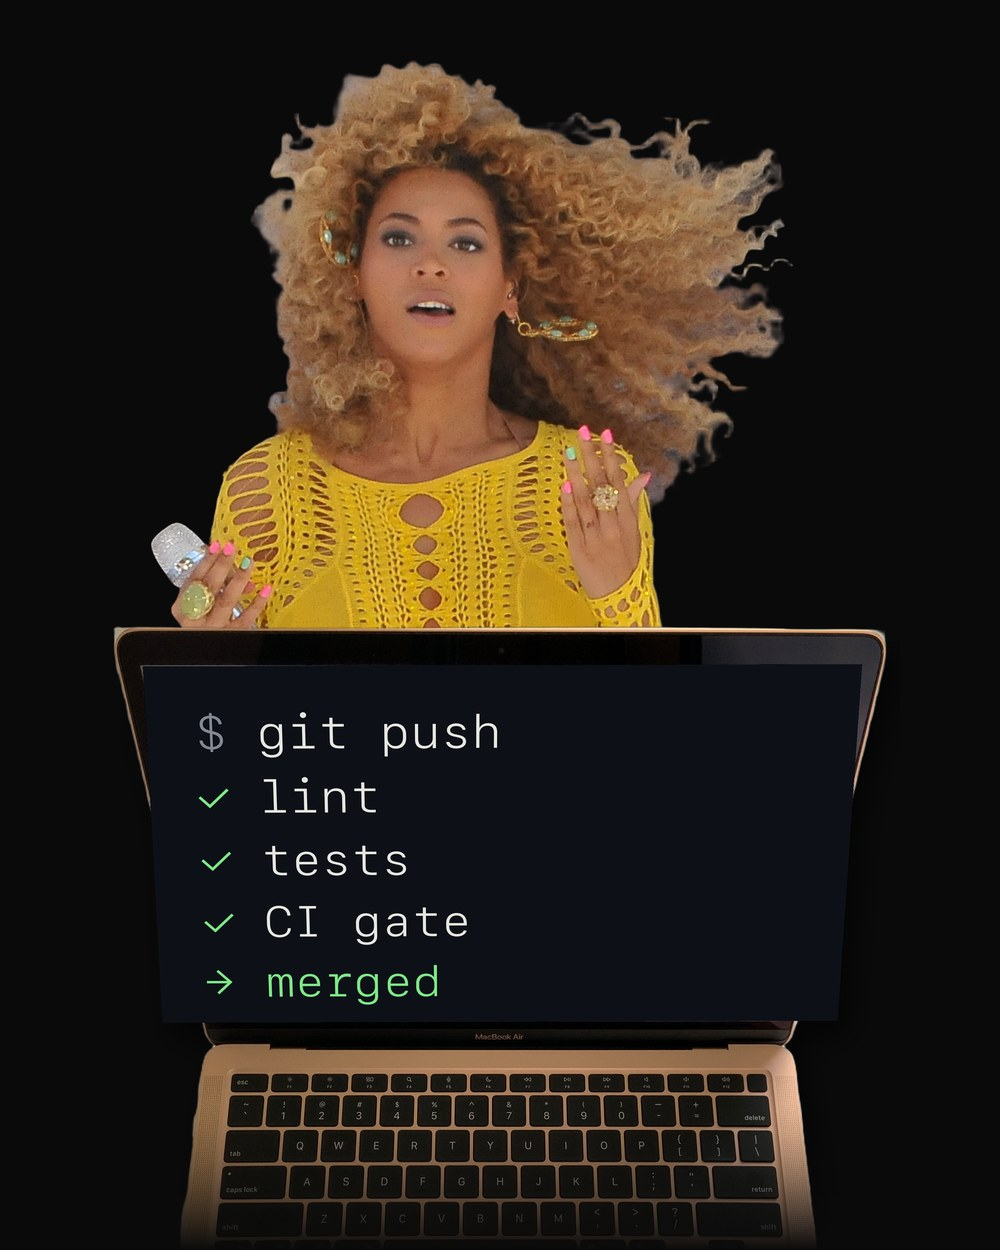
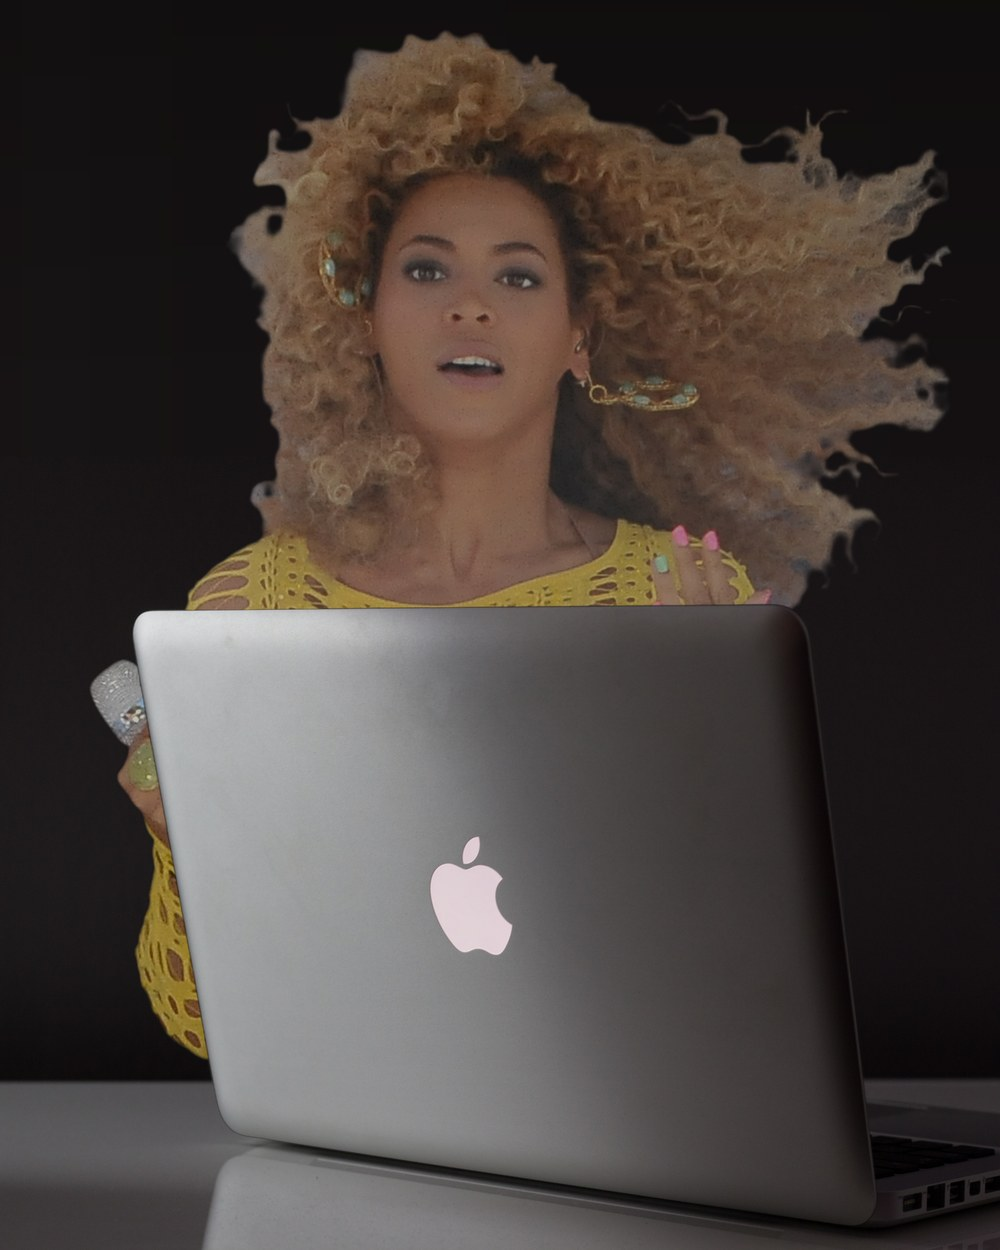
Set Beyoncé behind a laptop on a desk instead of under a sticker
The pasted top-down laptop fought her straight-on photo in perspective,
scale and light. Now she sits behind a MacBook seen from the back at eye
level («Apple laptop lid», CC0), on its dark desk, clipped at the desk's
far edge, toned to the room with a faint glow from the screen.

Claude-Session: https://claude.ai/code/session_017qGDWwZKwaDwDdCSP42EW7

diff --git a/src/slides/ConclusionsSlide.tsx b/src/slides/ConclusionsSlide.tsx
@@ -12,8 +12,8 @@ import { COMPACTING_TITLE } from './compacting';
 // Any `beyonce.*` in src/assets is picked up; without one the slide simply
 // has no picture. The one there is a collage: Beyoncé performing «Single
 // Ladies» on GMA, 2011 (Asterio Tecson, CC BY-SA 2.0, Wikimedia Commons),
-// cut out onto black, with a MacBook Air (public domain, Commons) pasted in
-// front of her and a green CI run on its screen.
+// set behind a MacBook on a dark desk («Apple laptop lid», CC0, Commons),
+// toned to the room and clipped at the desk's far edge.
 const BEYONCE = Object.values(
   import.meta.glob('../assets/beyonce.{png,jpg,jpeg,webp}', { eager: true, query: '?url', import: 'default' }),
 )[0] as string | undefined;
@@ -26,7 +26,7 @@ export function BeyoncePicture() {
       <img
         className="conclusions__picture"
         src={BEYONCE}
-        alt="Beyoncé (Single Ladies, GMA 2011) behind a MacBook with a green CI run"
+        alt="Beyoncé (Single Ladies, GMA 2011) behind a MacBook"
       />
       <figcaption className="conclusions__credit">
         колаж за{' '}
